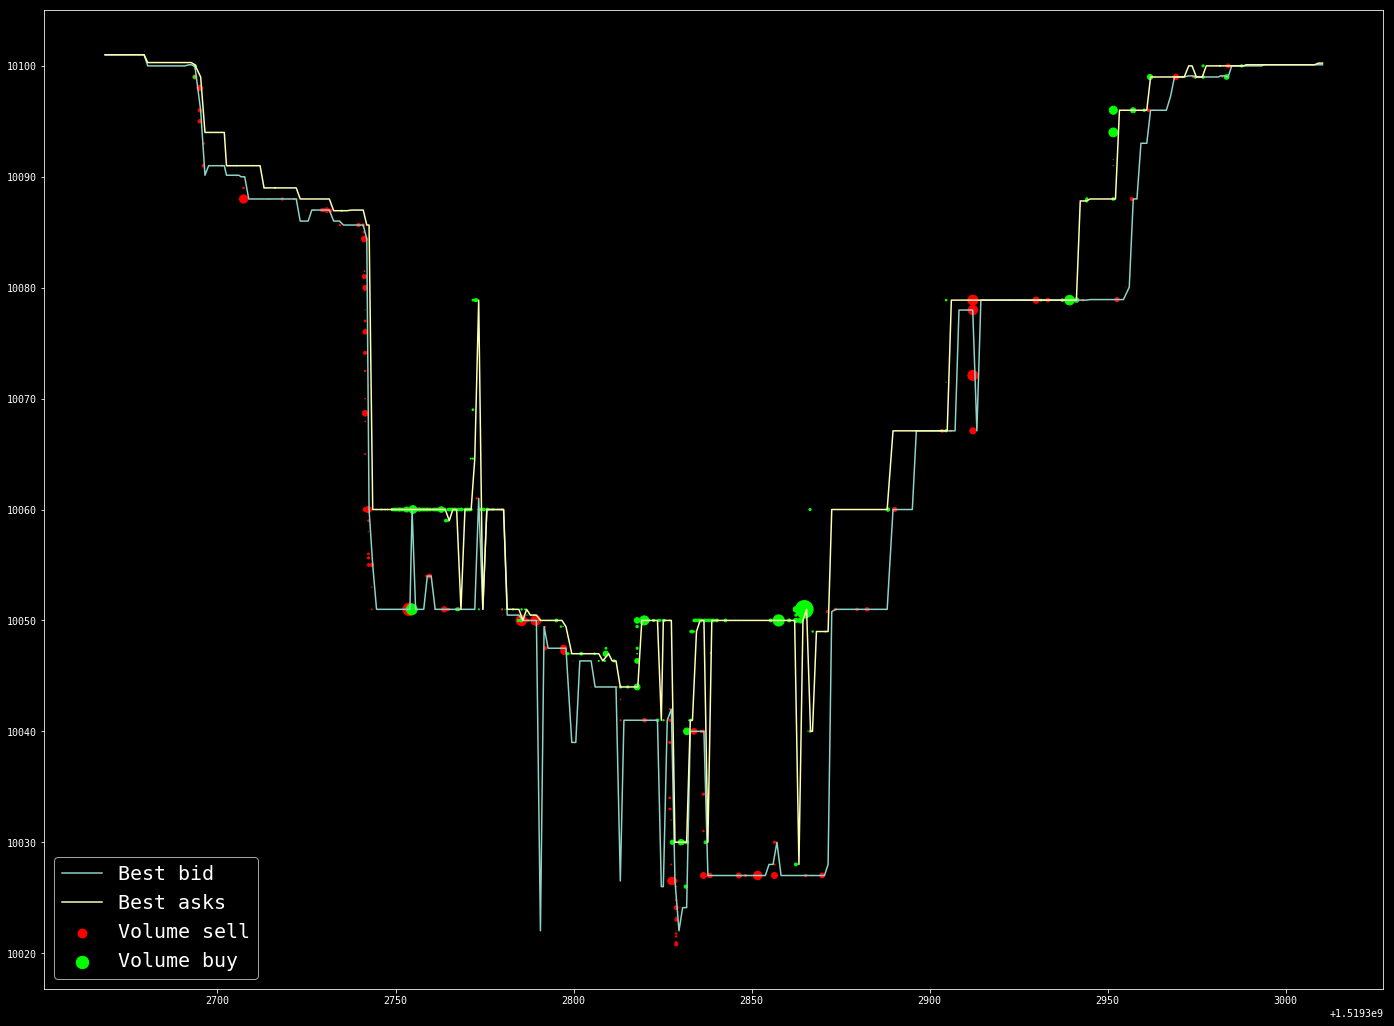
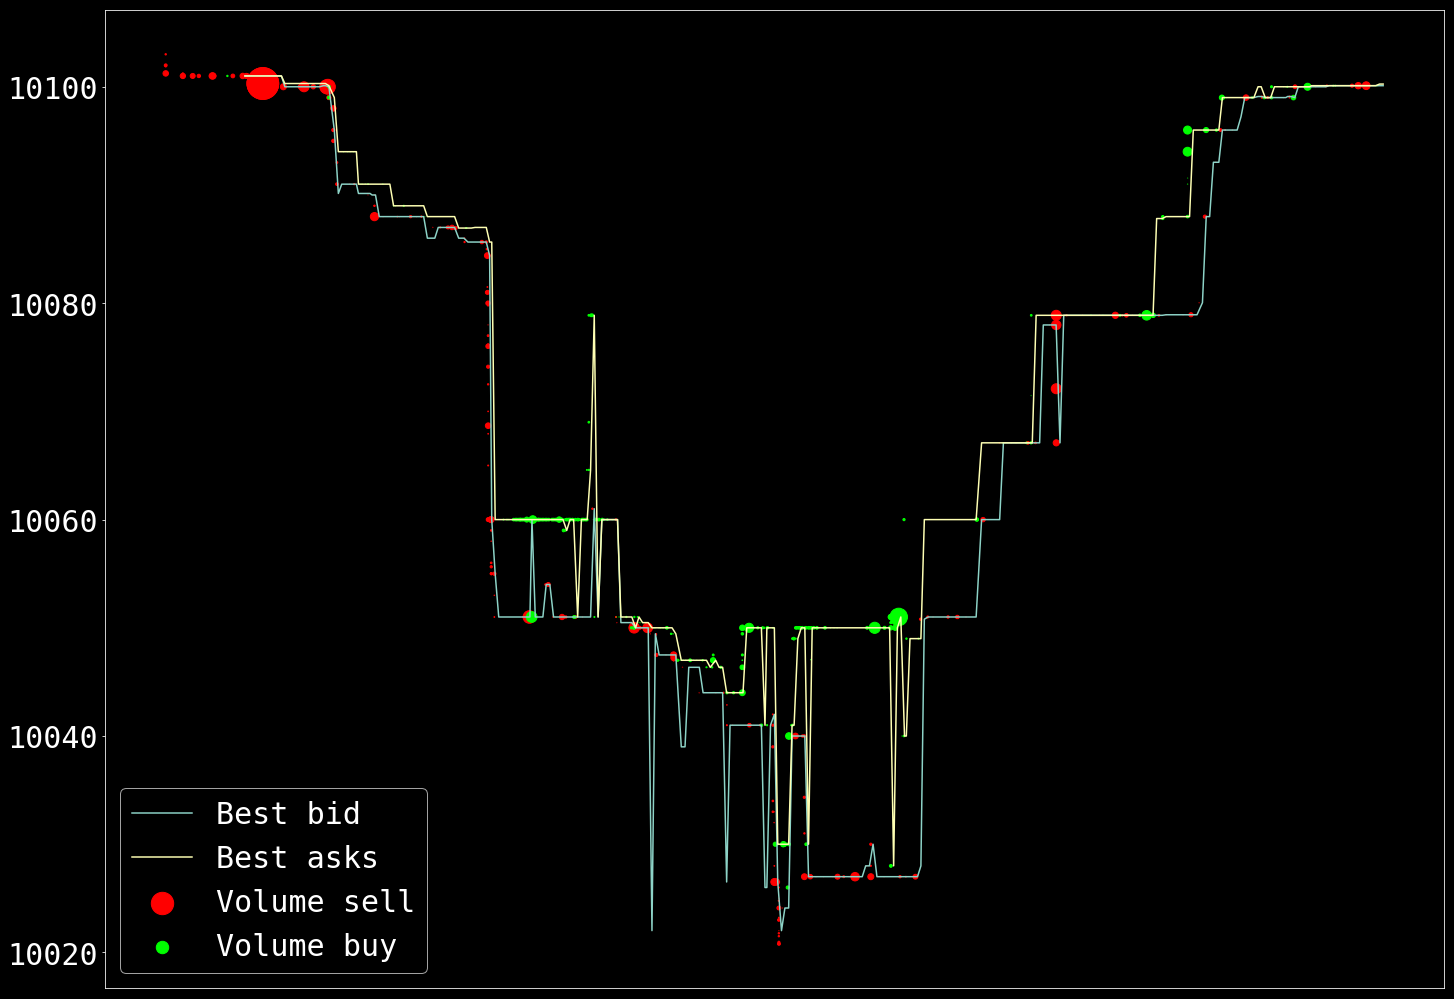
[Doc] corrections; images updated

diff --git a/report/chapter-4.tex b/report/chapter-4.tex
@@ -92,7 +92,7 @@ By no means does this method guarantees that the same observations are true for 
 \begin{figure}[H]
     \centering
     \begin{subfigure}[b]{0.45\textwidth}
-        \includegraphics[width=\textwidth]{ob-ba-min}
+        \includegraphics[width=\textwidth]{images/ob-ba-min.png}
         \caption{Best bid and best ask}
         \label{fig:ob-ba-min}
     \end{subfigure}
@@ -106,7 +106,7 @@ By no means does this method guarantees that the same observations are true for 
     \caption{USD/BTC price and bid/ask positions}\label{fig:animals}
 \end{figure}
 
-In Figure \ref{fig:ob-ba-min} we show the same price movement (cyan) but with the best bid (yellow) and ask (violet).
+In Figure \ref{fig:ob-ba-min} we show the same price movement including the best bid and ask price.
 Furthermore, the deepest level of the bid and ask ask side is shown in Figure \ref{fig:ob-ba-max}.
 It is evident that the best bid and ask are close to the market price before and after the price dip, meaning the spread is narrow.
 During the dip, the spread widens and is, at times, as large as \$25.
@@ -195,7 +195,7 @@ The second variable in posting orders is the volume and we aim to determine whet
 
 Table \ref{tbl:data-imbalance} shows the (im-)balance of the volumes of bid and ask orders segmented into bids and asks of all events, trade events only, order creations and order cancellations.
 It is evident that, even though the price moved significantly within the recorded time range, the entirety of the events is well balanced between the bid and ask side.
-And this is true for trade events only.
+And this is also true for trade events only.
 Further, it is evident that the market participants reacted on the sale of the asset by not only creating but also cancelling more buy than sell orders.
 We take the last statement as an indication that the market participants may have responded to the price dip by cancelling their current buy orders and posting them to a lower price in the book.
 Interestingly, even though the price rose after the dip, not as much volume was used on creations and cancellations of orders on the seller side.
@@ -206,13 +206,11 @@ Interestingly, even though the price rose after the dip, not as much volume was 
 \subsection{Importance of volume of orders and trades over time}
 \label{sec:data-hypthesis-order-trade-volume-time}
 
-So far, the volume was investigated as a sum of events over time.
-In order to understand the behaviour of the participants in greater detail, a \textit{volume map} shall provide better insight into the single events occurred over time.
-
-Figure \ref{fig:data-volmap-crated} shows the volume map of the orders which were created over the time span of the data set.
-Hence, the x-axis represents the time stamp and the y-axis is the volume of the placed order.
+The volume has been investigated as a sum of events over time.
+In order to understand the behaviour of the participants in greater detail, a \textit{volume map} will provide better insight into the single events occurred over time, as shown in Figure \ref{fig:data-volmap-crated}.
+The x-axis represents the time stamp and the y-axis is the volume of the placed order.
 For visibility reasons and since the majority of the orders have a small volume and fewer have large volume, the y-axis follows a log-scale.
-Participants cannot be assigned to such an order, as the trader id is non-public information.
+Participants cannot be assigned to such an order, as the trader "id" is non-public information.
 However, as we will see, one can determine some participants according to their behaviour.
 
 \begin{figure}[H]
@@ -224,8 +222,8 @@ However, as we will see, one can determine some participants according to their 
     \label{fig:data-volmap-crated}
 \end{figure}
 
-What might not be obvious due to the log scaling is the fact that most of the orders were placed with volume between >0 and <0.5 and significantly less with larger volume.
-Only a few orders had a volume greater than 10 BTC, meaning that most of the participants either are willing to buy and sell only small quantities or split their orders to minimize the market impact.
+Most of the orders were placed with volume between >0 and <0.5 and significantly less orders had a larger volume.
+Only a few orders had a volume greater than 10 BTC, meaning that most of the participants are either willing to buy and sell only small quantities, or split their orders to minimize the market impact.
 
 From a horizontal perspective, one can detect some orders of both sides, bids and asks, being listed with the same time interval.
 Particularly evident is such a behaviour at the volume just below $10^0$.
@@ -233,10 +231,10 @@ This is likely one or multiple bots posting orders with the same volume and perh
 Examples of this behaviour is marked with a red-dashed horizontal box.
 A similar behaviour can be seen from a vertical perspective where one or more traders post orders at different price levels, with the same price segmentation.
 This is market with a red-dashed vertical box.
-Furthermore, a very distinctive pattern is when a trader posts orders within a short period of time but changing volume.
-This might be evidence of someone splitting a larger order into small pieces and is marked with an orange-dashed circle.
-Some refer to such a behaviour as \textit{buy-wall} (\textit{sell-wall} in case of an ask orders) and surprisingly, this behaviour appeared the most when before and during the price started rising again (compare time stamps from Figure \ref{fig:data-price-movement}).
-Last but not least, examples of areas dominated by one particular order side (buy or sell) is marked with a purple box.
+Furthermore, a very distinctive diagonal-shaped pattern occurs when a trader posts orders within a short period of time but changing volume.
+This might be evidence of someone splitting one larger order into small pieces (known as buy or sell wall) and is marked with an orange-dashed circle.
+Surprisingly, this behaviour appeared the most immediately before and during the market price started rising again (compare time stamps from Figure \ref{fig:data-price-movement}).
+Last but not least, examples of areas dominated by one particular order side (buy or sell) is marked with a purple box, indicating that for a certain period of time either buyers or sellers flooded the market with orders with various volume.
 
 \begin{figure}[H]
     \centering
@@ -247,13 +245,13 @@ Last but not least, examples of areas dominated by one particular order side (bu
     \label{fig:data-volmap-cancelled}
 \end{figure}
 
-It is to be expected that at least for some of the orders, which did not result in a trade, a cancellation followed.
-Figure \ref{fig:data-volmap-cancelled} therefore shows the cancel orders posted by traders over time.
+It is to be expected that at least for some of the limit orders, which did not result in a trade, a cancellation followed.
+Figure \ref{fig:data-volmap-cancelled} therefore shows the cancelled orders over time.
 
-Continuous cancellations become especially evident at volume levels just below $10^0$ and $10^{-1}$, correlating with the continuous create orders appeared at the same price level above.
-Hence, there is likely a trader following some strategy.
-A cancellation of one of the created buy-walls is particularly evident at the same time stamp and with equal volumes as previously discovered.
-Hence, making it more even more likely that the wall was created and cancelled by a single trader.
+Continuous cancellations become especially evident at volume levels just below $10^0$ and $10^{-1}$ and correlate with the continuous orders created at the same price level, as shown above.
+Hence, there is likely a trader following some strategy which involves creations and cancellations of orders with equal volume.
+A cancellation of one of the created buy-walls is particularly evident at the same time stamp and with equal volumes as previously discovered during the observation of created orders.
+That makes it likely that the wall was created and cancelled by a single trader.
 \vfill
 \pagebreak
 
@@ -267,18 +265,18 @@ Hence, making it more even more likely that the wall was created and cancelled b
 \end{figure}
 
 So far only posted limit orders or their cancellation where observed.
-Not all of those limit orders might have executed and resulted into a trade as there is always a market order required, initiated by one of the two parties involved in a trade.
-Figure \ref{fig:data-volmap-traded} therefore illustrates the volume map of the actual trades occurred within this sample time range of the data set.
+Not all of those limit orders might have resulted into a trade and therefore
+Figure \ref{fig:data-volmap-traded} illustrates the volume map of the actual trades occurred.
 
 Immediately evident are the trades transacted with volume $10^{-3}$, with oftentimes identical time interval.
 Additionally, an intensive series of consecutive sales occurred at the time when the price dipped.
 After the dip, such sales are not present anymore.
-Furthermore, intensive and immediate purchases are visible with various volume at some distinctive time stamps before and during the price fall.
-We remember that there was one spike towards a higher price during the dip, and the time stamp of which correlates strongly to the purchases visible in this figure.
+Furthermore, intensive and immediate purchases are visible with various volume at time stamps before and during the price fall.
+We remember that there was one spike towards a higher price during the dip, and the time stamp of which correlates strongly with the purchases visible in this figure.
 \\
 \\
 Various behavioural patterns have been observed by investigating events initiated by market participants over time.
-For some, their impact on the market price is immediately obvious, for others it is hard to interpret by hand.
+For some, their impact on the market price is immediately obvious, for others it is hard to interpret by eye.
 However, an attempt to find correlation between the behaviour of the events and the resulted trades with the application of learning techniques seems promising.
 \\
 \\
@@ -288,7 +286,7 @@ However, an attempt to find correlation between the behaviour of the events and 
 \label{sec:data-hypthesis-trade-price-volume}
 
 The price levels and volume of events over time was investigated for each type in the previous subsections.
-Patterns were found and a hypothesis was stated which encourages the various offerings of volume of an order to be an indicator of future behaviour of market participants, which eventually influences the market price and implicitly determines optimal order placement.
+Patterns were found and a hypothesis was stated which encourages the various offerings of volume of an order to be an indicator of future behaviour of market participants, which would eventually influence the market price and allows determines optimal order placement.
 The next logical step is to investigate the sum of traded volume at a given point in time (as shown in Figure \ref{fig:data-volmap-traded}) in combination with the price the asset was traded for.
 
 \begin{figure}[H]
@@ -301,11 +299,11 @@ The next logical step is to investigate the sum of traded volume at a given poin
 \end{figure}
 
 Figure \ref{fig:data-trade-volume} illustrates the volumes of trades on both bid and ask side, which resulted in a buy or sell at a certain price.
-The volume of these trades are illustrated as bubbles according to their size (e.g. traded volume) and price.
+The volume of these trades are illustrated as bubbles with a size that determines traded volume and the position defines the price.
 As is known, a buy appears when one crosses the spread towards the sellers side (ask) and a sell appears when crossing towards the buyer side (bid).
 One can clearly see how buys are listed on the best ask price level and sells are listed on the best buy price level.
-Before and during the dip sells appear consecutively, followed by a series of buy orders with low volume, which caused the short spike.
-Interestingly, a rather large trade caused by a bid appeared shortly before the price started rising again.
+Before and during the dip sells appear consecutively, followed by a series of buy orders with low volume, which caused the minor spike.
+Interestingly, a rather large trade caused by a bid appeared shortly before the price started to rise again.
 Even though sellers confronted the market in the middle of the price rise, participants continued buying shortly after with approximately equal volume.
 Concluding this observation it is evident that few trades with small volume caused a certain noise in the overall trend.
 Multiple consecutive trades initiated one side or a single large the like, however, led the market price to move for substantially longer period of time.
@@ -471,9 +469,9 @@ As a result we constructed a feature vector of length $n$ (number of trades) tha
 
 \section{Conclusion}
 
-Event data was collected from a crypto-currency exchange and a limit order book was reconstructed thereof.
+Event data was collected from the Bittrex cryptocurrency exchange and a limit order book was reconstructed thereof.
 The limit order book serves as the historical data set and source for the match engine in order to simulate order placement. 
-Subsequently the price chart as the result of the generated order book was shown and an investigation of the underlying event data was proceeded.
-Patterns were found which give insight in how market participants positioned their offerings with respect to price and size.
+Subsequently the price chart, derived from the generated order book, was shown and an investigation of the underlying event data was proceeded.
+Patterns were found which give insight in how market participants positioned their orders with respect to price and size.
 It was shown that the price movement was likely due to (1) an imbalance in bid and ask orders; (2) a distinctive way of posting or cancelling orders; and (3) consecutive or impulsive trades.
-These findings were incorporated within the feature engineering process, which resulted in two features that can be used by the reinforcement learning agents.
+These findings were incorporated within the two constructed features, and will serve as observation state for the reinforcement learning agents that are described in the following chapter.
